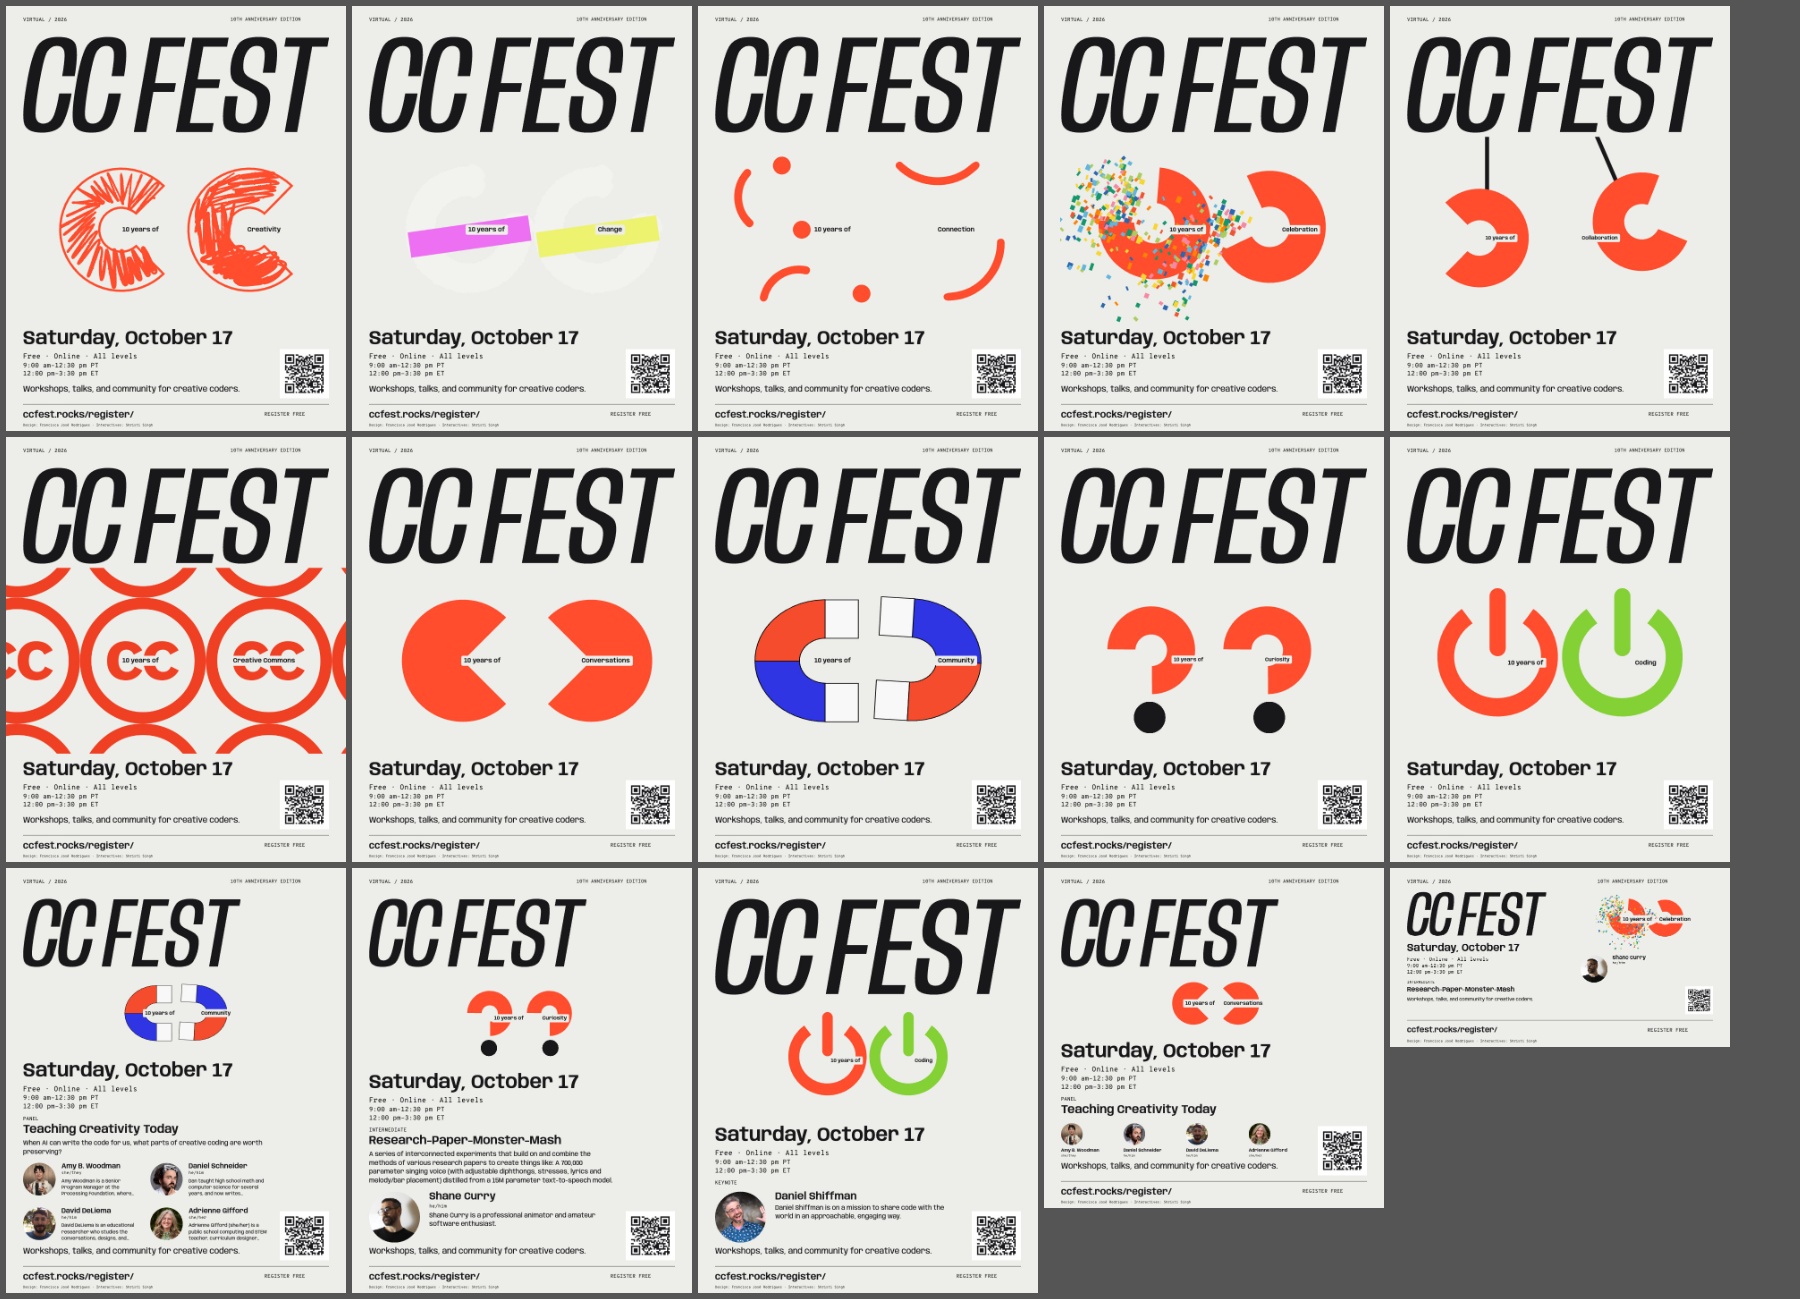
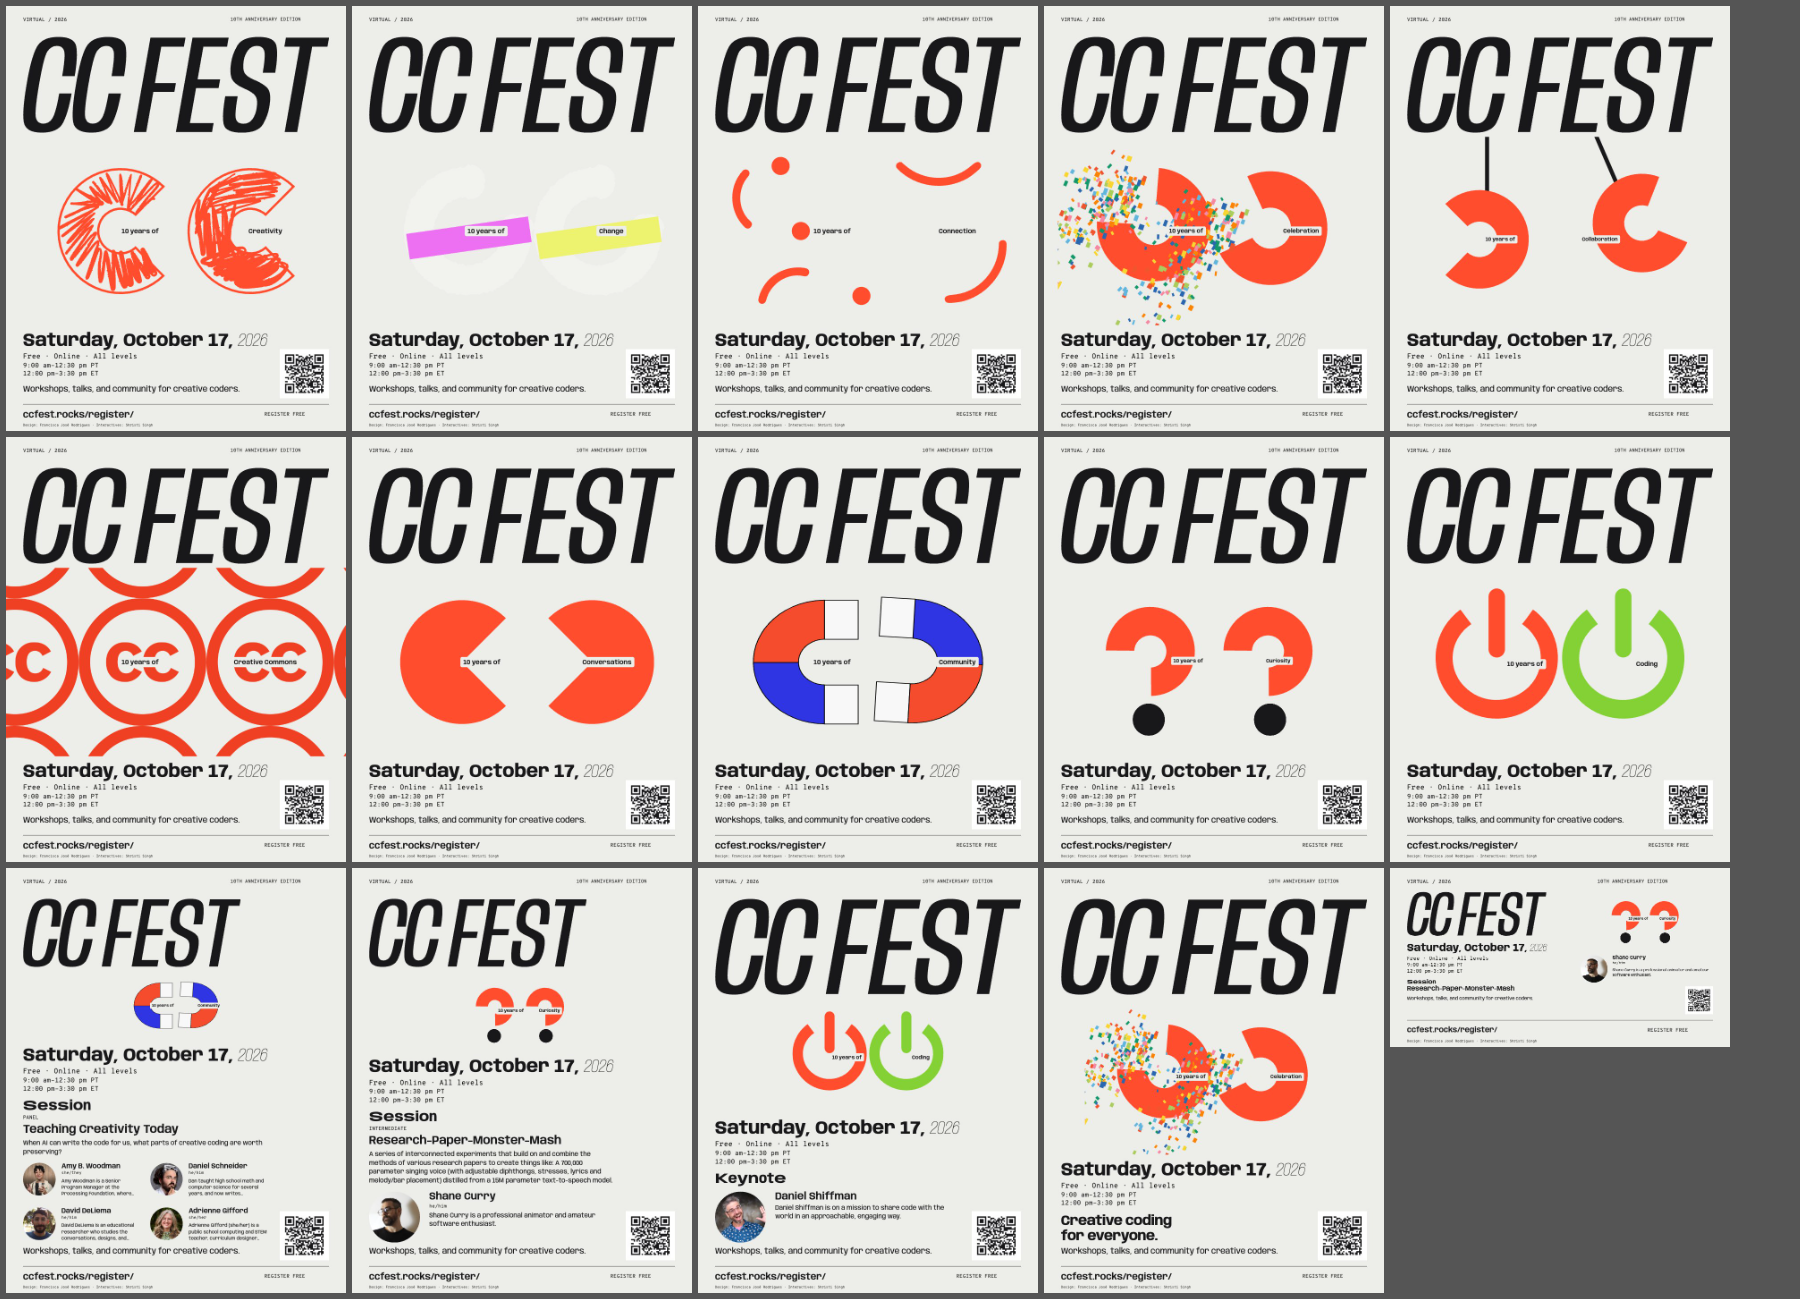
Use Francisca's lettering on posters
The date line, Keynote/Session headings, and "Creative coding for
everyone." now use her per-letter Figma settings instead of flat
Anybody. sync-typography.cjs writes them to
assets/poster-maker/lettering.json, and the poster maker pins each
width with its own font face so canvas matches the HTML (589.8px vs
589.8px for "Keynotes" at 100px).

diff --git a/poster-art.js b/poster-art.js
@@ -70,7 +70,34 @@
   function font(ctx, size, mono = false, weight = 400) {
     ctx.font = `${weight} ${size}px "${mono ? 'Overpass Mono' : 'Anybody'}"`;
     ctx.textBaseline = 'top';
+    ctx.letterSpacing = '0px';
   }
+
+  // Francisca's lettering: runs of letters, each with its own width axis, weight, italic and
+  // spacing, from assets/poster-maker/lettering.json. Canvas can't set the width axis, so
+  // poster-maker.js registers one font face per width (LETTER_FAMILY) that pins it.
+  const LETTER_FAMILY = run => `CCF Anybody ${run.wdth}${run.italic ? ' Italic' : ''}`;
+  function setRun(ctx, run, size) {
+    ctx.font = `${run.italic ? 'italic ' : ''}${run.wght} ${size}px "${LETTER_FAMILY(run)}"`;
+    ctx.letterSpacing = `${run.spacing * size}px`;
+    ctx.textBaseline = 'top';
+  }
+  // One line of runs. Shrinks to fit maxWidth rather than failing. Returns the height used.
+  function lettered(ctx, runs, x, y, size, maxWidth, draw) {
+    const text = run => (run.upper ? run.text.toUpperCase() : run.text);
+    const measure = at => runs.reduce((width, run) => { setRun(ctx, run, at); return width + ctx.measureText(text(run)).width; }, 0);
+    const natural = measure(size);
+    const fitted = natural > maxWidth ? size * maxWidth / natural : size;
+    if (draw) {
+      let cx = x;
+      ctx.fillStyle = INK;
+      for (const run of runs) { setRun(ctx, run, fitted); ctx.fillText(text(run), cx, y); cx += ctx.measureText(text(run)).width; }
+    }
+    ctx.letterSpacing = '0px';
+    return fitted * 1.2;
+  }
+  // "Keynotes" → "Keynote": her letters, minus the final run when it is just the s.
+  const singular = runs => (runs[runs.length - 1].text === 's' ? runs.slice(0, -1) : runs);
   // Every text helper can measure without drawing (draw = false) so layouts can be sized first.
   function line(ctx, text, x, y, size, maxWidth, draw, mono = false, weight = 400) {
     font(ctx, size, mono, weight);
@@ -130,9 +157,9 @@
     // "10 years of …": on the homepage these sit on shapes, confetti and tiles, which is fine at
     // screen size and hard to read on a poster. Keep her placement, but set them in ink on a
     // small backing, at a readable size. In a small artwork band they would cover the Cs, so skip them.
-    if (state.labels && h >= 170) {
+    if (state.labels && h >= 120) {
       for (const label of art.labels) {
-        const size = Math.max(label.size * s, 15);
+        const size = Math.max(label.size * s, Math.min(15, h * 0.055));
         ctx.font = `600 ${size}px "Anybody"`;
         ctx.textBaseline = 'middle';
         const width = ctx.measureText(label.text).width;
@@ -219,23 +246,42 @@
     const describe = state.format !== 'square' && state.format !== 'landscape';
     const start = y;
     const feature = content.feature;
-    y += line(ctx, content.date, x, y, big ? 56 : 30, width, draw, false, 600) - (big ? 6 : 2);
+    const letters = content.lettering;
+    if (letters) {
+      // Her event title sets the date in Bold and the year in Thin Italic; the poster uses those two runs.
+      const [dateRun, yearRun] = letters.eventTitle.slice(-2);
+      y += lettered(ctx, [{ ...dateRun, text: `${content.date}, ` }, { ...yearRun, text: content.year }], x, y, big ? 56 : 30, width, draw) - (big ? 4 : 2);
+    } else y += line(ctx, content.date, x, y, big ? 56 : 30, width, draw, false, 600) - (big ? 6 : 2);
     y += line(ctx, content.facts, x, y + 4, big ? 21 : 15, width, draw, true) + 4;
     if (state.times && content.times.length) {
       for (const time of content.times) y += line(ctx, time, x, y, big ? 19 : 14, width, draw, true);
       y += 3;
     }
     if (feature) {
-      if (feature.kicker) y += line(ctx, feature.kicker, x, y + 10, big ? 15 : 11, width, draw, true) + 8;
+      if (letters) {
+        const heading = singular(feature.kind === 'keynote' ? letters.keynotes : letters.sessions);
+        y += lettered(ctx, heading, x, y + (big ? 12 : 8), big ? 40 : 17, width, draw) + (big ? 6 : 2);
+        // Landscape keeps her heading and drops the tags line for room.
+        if (feature.kicker && feature.kind !== 'keynote' && big) y += line(ctx, feature.kicker, x, y + 4, big ? 15 : 11, width, draw, true) + 6;
+      } else if (feature.kicker) y += line(ctx, feature.kicker, x, y + 10, big ? 15 : 11, width, draw, true) + 8;
       if (feature.title) y += wrap(ctx, feature.title, x, y + 4, big ? 34 : 19, width, 3, draw, { weight: 600, leading: 1.15 }) + 6;
       if (feature.description && describe) y += wrap(ctx, feature.description, x, y + 6, big ? 19 : 12, width, big ? 4 : 3, draw, { clip: true, leading: 1.35 }) + 8;
     }
     return y - start;
   }
 
-  function copy(ctx, state, x, y, width, big, draw) {
+  function copy(ctx, state, content, x, y, width, big, draw) {
     let h = 0;
-    if (state.template === 'community') h += wrap(ctx, 'Creative coding for everyone.', x, y, big ? 26 : 16, width, 2, draw, { weight: 600 }) + 6;
+    if (state.template === 'community') {
+      const letters = content.lettering;
+      if (letters) {
+        // Her two-line "Creative coding / for everyone." at her 110% line height.
+        const run = letters.community[0];
+        const size = big ? 40 : 18;
+        for (const part of run.text.split('\n')) h += lettered(ctx, [{ ...run, text: part }], x, y + h, size, width, draw) / 1.2 * (run.lineHeight || 1.1);
+        h += 8;
+      } else h += wrap(ctx, 'Creative coding for everyone.', x, y, big ? 26 : 16, width, 2, draw, { weight: 600 }) + 6;
+    }
     if (state.copy) h += wrap(ctx, state.copy, x, y + h, big ? 24 : 14, width, 3, draw);
     return h;
   }
@@ -263,7 +309,7 @@
     const textWidth = state.qr ? 720 : 900;
     const infoH = info(ctx, state, content, 50, 0, textWidth, true, false);
     const peopleH = feature ? people(ctx, feature, 50, 0, textWidth, attempt.compact, state.bios, false) : 0;
-    const copyH = copy(ctx, state, 50, 0, textWidth, true, false);
+    const copyH = copy(ctx, state, content, 50, 0, textWidth, true, false);
     const gap = 14;
     const fit = attempt.text || 1;
     const sInfo = scaleOf(frame, 'info') * fit, sPeople = scaleOf(frame, 'people') * fit, sCopy = scaleOf(frame, 'copy') * fit;
@@ -283,7 +329,7 @@
       place(ctx, frame, 'people', [50, py, textWidth, peopleH], () => people(ctx, feature, 50, py, textWidth, attempt.compact, state.bios, true), fit);
       y += peopleH * sPeople + gap;
     }
-    if (copyH) { const cy = y; place(ctx, frame, 'copy', [50, cy, textWidth, copyH], () => copy(ctx, state, 50, cy, textWidth, true, true), fit); }
+    if (copyH) { const cy = y; place(ctx, frame, 'copy', [50, cy, textWidth, copyH], () => copy(ctx, state, content, 50, cy, textWidth, true, true), fit); }
     if (artH < minArt) frame.problems.push('The text is crowding out the artwork. Drag a corner of a text block to make it smaller, turn off bios or times, or choose a taller size.');
     return artH;
   }
@@ -296,14 +342,14 @@
     place(ctx, frame, 'logo', [50, 70, logoW, logoH], () => ctx.drawImage(assets.logo, 50, 70, logoW, logoH));
     let y = 70 + logoH * scaleOf(frame, 'logo') + 22;
     const infoH = info(ctx, state, content, 50, y, 480, false, false);
-    const copyH = copy(ctx, state, 50, y, 480, false, false);
+    const copyH = copy(ctx, state, content, 50, y, 480, false, false);
     // Shrink the left column (down to 70%) before reporting that it runs into the footer.
     const leftH = infoH * scaleOf(frame, 'info') + (copyH ? 8 + copyH * scaleOf(frame, 'copy') : 0);
     const leftFit = Math.min(1, Math.max(0.7, (footer - 12 - y) / leftH));
     const iy = y;
     place(ctx, frame, 'info', [50, iy, 480, infoH], () => info(ctx, state, content, 50, iy, 480, false, true), leftFit);
     y += infoH * scaleOf(frame, 'info') * leftFit + 8;
-    if (copyH) { const cy = y; place(ctx, frame, 'copy', [50, cy, 480, copyH], () => copy(ctx, state, 50, cy, 480, false, true), leftFit); y += copyH * scaleOf(frame, 'copy') * leftFit; }
+    if (copyH) { const cy = y; place(ctx, frame, 'copy', [50, cy, 480, copyH], () => copy(ctx, state, content, 50, cy, 480, false, true), leftFit); y += copyH * scaleOf(frame, 'copy') * leftFit; }
     if (y > footer - 12) frame.problems.push('The details run into the footer. Drag a corner of a text block to make it smaller, hide the times, or choose a taller size.');
     const floor = footer - (state.qr ? 110 : 20);
     const peopleH = feature ? people(ctx, feature, 560, 0, 390, true, state.bios, false) : 0;
@@ -337,7 +383,7 @@
         // full wordmark unless that leaves the artwork too small to be the centrepiece.
         const attempts = content.feature
           ? [{ logo: 900, compact: false }, { logo: 640, compact: false }, { logo: 640, compact: true }, { logo: 640, compact: true, text: 0.85 }]
-          : [{ logo: 900, compact: false }];
+          : [{ logo: 900, compact: false }, { logo: 640, compact: false }];
         const sized = attempts.map(attempt => ({ attempt, art: tallLayout(ctx, state, art, content, assets, frame, attempt, false) })).filter(option => option.art > 0);
         const readable = sized.filter(option => !option.attempt.compact);
         const pick = readable.find(option => option.art >= 280) || [...readable].sort((a, b) => b.art - a.art)[0] || sized[0];

diff --git a/poster-maker.js b/poster-maker.js
@@ -115,6 +115,25 @@
     };
   }
 
+  // Francisca's lettering (written by scripts/sync-typography.cjs). Canvas can't set the width
+  // axis, so each width she uses gets its own font face pinned to it (the browser clamps the
+  // width to the face's single-value range). Without it posters fall back to plain Anybody.
+  async function loadLettering(home) {
+    try {
+      const response = await fetch(new URL('assets/poster-maker/lettering.json', home));
+      if (!response.ok) return null;
+      const lettering = await response.json();
+      const runs = Object.values(lettering).filter(Array.isArray).flat();
+      const faces = new Map(runs.map(run => [`CCF Anybody ${run.wdth}${run.italic ? ' Italic' : ''}`, run]));
+      await Promise.all([...faces].map(async ([family, run]) => {
+        const file = run.italic ? 'Anybody-Italic[wdth,wght].ttf' : 'Anybody[wdth,wght].ttf';
+        const face = new FontFace(family, `url("${new URL(`assets/fonts/${file}`, home).href}")`, { stretch: `${run.wdth}%`, weight: '100 900', style: run.italic ? 'italic' : 'normal' });
+        document.fonts.add(await face.load());
+      }));
+      return lettering;
+    } catch (_) { return null; }
+  }
+
   // Which keynotes or sessions each spotlight template can feature, as indexes into the data.
   function choices(template) {
     if (template === 'keynote') return content.keynotes.map((k, i) => [i, k.name]);
@@ -397,6 +416,7 @@
     await Promise.all([document.fonts.load('400 24px Anybody'), document.fonts.load('600 56px Anybody'), document.fonts.load('400 19px "Overpass Mono"')]);
     if (!document.fonts.check('400 24px Anybody') || !document.fonts.check('400 19px "Overpass Mono"')) throw new Error('The poster fonts did not load. Please reload before exporting.');
     content = await eventContent();
+    content.lettering = await loadLettering(content.home);
     const [logo, qr] = await Promise.all(['wordmark.svg', 'register-qr.svg'].map(file => image(new URL(`assets/poster-maker/${file}`, content.home).href)));
     assets = { logo, qr, logoRatio: logo.naturalHeight / logo.naturalWidth };
     let restored = { ...A.DEFAULTS };

diff --git a/CURRENT.md b/CURRENT.md
@@ -302,3 +302,9 @@ Add the Zoom Events link in Luma when Saber sends it. Before the event, import m
 - Move/resize: every block except the footer can be dragged, corner-resized, or moved with the keyboard; kept per size, saved in drafts and presets (preset version 3; older presets are refused with a message). Layout problems (crowding, a block off the poster) turn export off with a message instead of blocking the preview.
 - Verified in headless Chrome on a local Jekyll build: `verify-poster.cjs` passes, including every keynote/session/panel at every size with and without bios (none crowded), drag, resize, keyboard, text edits across reload. `verify.cjs` checks pass on every page except the pre-existing Past Events lazy-image failure at 768px. Also fixed: literal NUL bytes in `poster-art.js`'s copy check (from the earlier `\u0000` escape).
 - Needs: Saber to fill in `short_bio` / `short_description` where the opening sentence doesn't work; Francisca and Shristi to review the label chips and the panel layout.
+
+## Poster maker: Francisca's lettering — 2026-09-19 (Claude, branch `poster-lettering`)
+- PR #2 merged and live (unlisted) at ccfest.rocks/poster-maker/; checked headlessly on the live site.
+- Posters now use her Figma lettering: date line from the event title node 251:741 (Bold date, Thin Italic year), "Keynote"/"Session" headings from 251:765/251:788, "Creative coding / for everyone." from 218:150. `sync-typography.cjs` writes them to `assets/poster-maker/lettering.json`; re-running changes nothing. Per-width font faces reproduce her widths in canvas (589.8px vs 589.8px HTML for "Keynotes").
+- Landscape spotlights drop the small tags line to make room; announcement/community may use the smaller wordmark when her two-line heading needs space.
+- `verify-poster.cjs` passes, nothing crowded. Names, session titles, and bios have no Figma lettering; they stay plain Anybody.

diff --git a/docs/TYPOGRAPHY.md b/docs/TYPOGRAPHY.md
@@ -51,6 +51,10 @@ Nodes currently synced:
 
 Figma file key `jMiMzds3qYD2mO5w2Dsg4P`; frames Homepage `218:104`, Register `251:732`.
 
+## Posters
+
+The poster maker draws on a canvas, so it can't use the spans. `sync-typography.cjs` also writes `assets/poster-maker/lettering.json` with four nodes: the event title 251:741 (its date run and Thin Italic year style the poster's date line), Keynotes 251:765 and Sessions 251:788 (spotlight headings, with the final "s" dropped for "Keynote" / "Session"), and 218:150 "Creative coding for everyone." Canvas can't set the width axis either, so `poster-maker.js` registers one font face per width with a single-value `stretch` descriptor; the browser clamps to it, which pins the axis. Measured against the HTML spans, "Keynotes" at 100px is 589.8px in both (flat Anybody: 505px).
+
 ## Reading the data out of Figma
 
 Read-only, through the Figma Plugin API (the Figma MCP `use_figma` tool):

diff --git a/docs/POSTER-MAKER.md b/docs/POSTER-MAKER.md
@@ -4,6 +4,8 @@
 
 The artwork is Shristi Singh's homepage interactive: pick one of its ten words and the poster keeps a frame of that animation.
 
+The date line (Bold date, Thin Italic year), the Keynote / Session headings, and the community flier's "Creative coding for everyone." use Francisca's per-letter lettering from Figma, the same data as the site's headings (see [TYPOGRAPHY.md](TYPOGRAPHY.md#posters)). Other poster text (names, titles, bios) has no Figma lettering and is set in plain Anybody.
+
 ## Make a poster
 
 1. **Template.** Main announcement, Keynote spotlight, Session spotlight, Panel spotlight, or Community flier.
